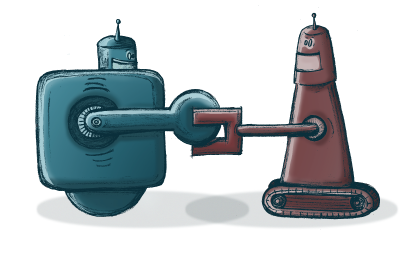
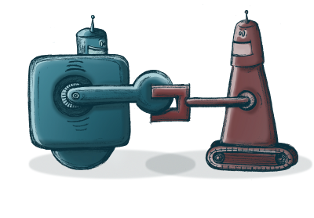
reduce image sizes

diff --git a/services.html b/services.html
@@ -20,9 +20,11 @@
                     </div>
                 </div>
                 <div class="foot_top_content"></div>
-                <div class="maincontent"><a class="intLink" name="top"></a><p><p>CodingCraft offer the following services:</p>
+                <div class="maincontent"><a class="intLink" name="top"></a>
+                    
+                    <h2>CodingCraft offer the following services:</h2>
 
-                    <ul>
+                    <ul class="pretty">
                         <li>Support for existing applications, either ad-hoc or through a contract.</li>
                         <li>Adding new features to bespoke software.</li>
                         <li>Web application optimisation (we are specialists in database problems)</li>

diff --git a/clients.html b/clients.html
@@ -18,7 +18,7 @@
                 <div class="mid_top_content">
                     <!--#Include virtual="includes/introText.html"-->
                     <div class="rightintro">
-                        <div class="&#xA;                     introimage home"></div>
+                        <div class="introimage clients"></div>
                     </div>
                 </div>
                 <div class="foot_top_content"></div>

diff --git a/css/style.css b/css/style.css
@@ -291,8 +291,9 @@ h1.contactus a:hover{
 
 .introimage{
     float:right;
-    width:400px;
-    height:280px;
+    padding-left: 35px;
+    width:314px;
+    height:220px;
 }
 
 .introimage.home{
